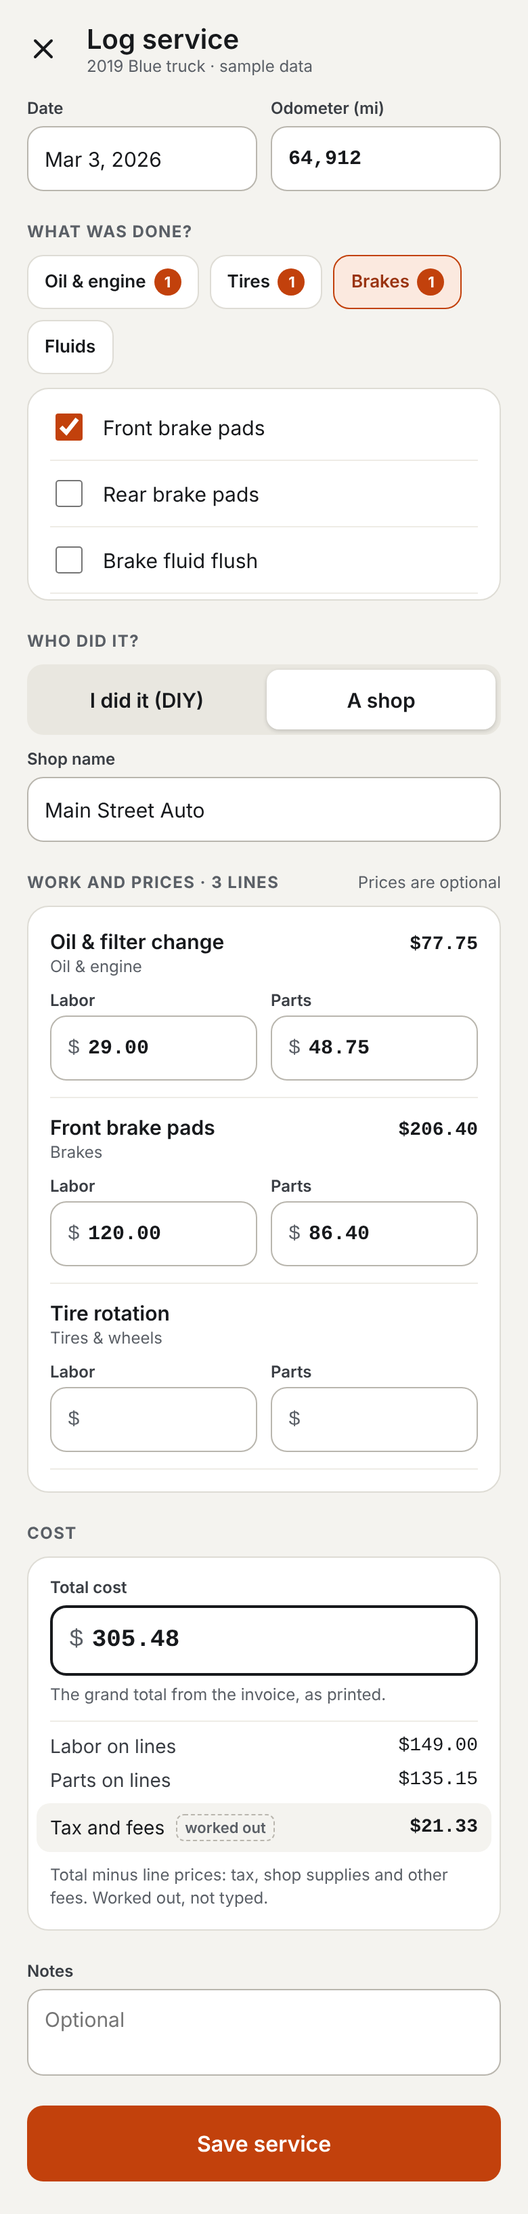
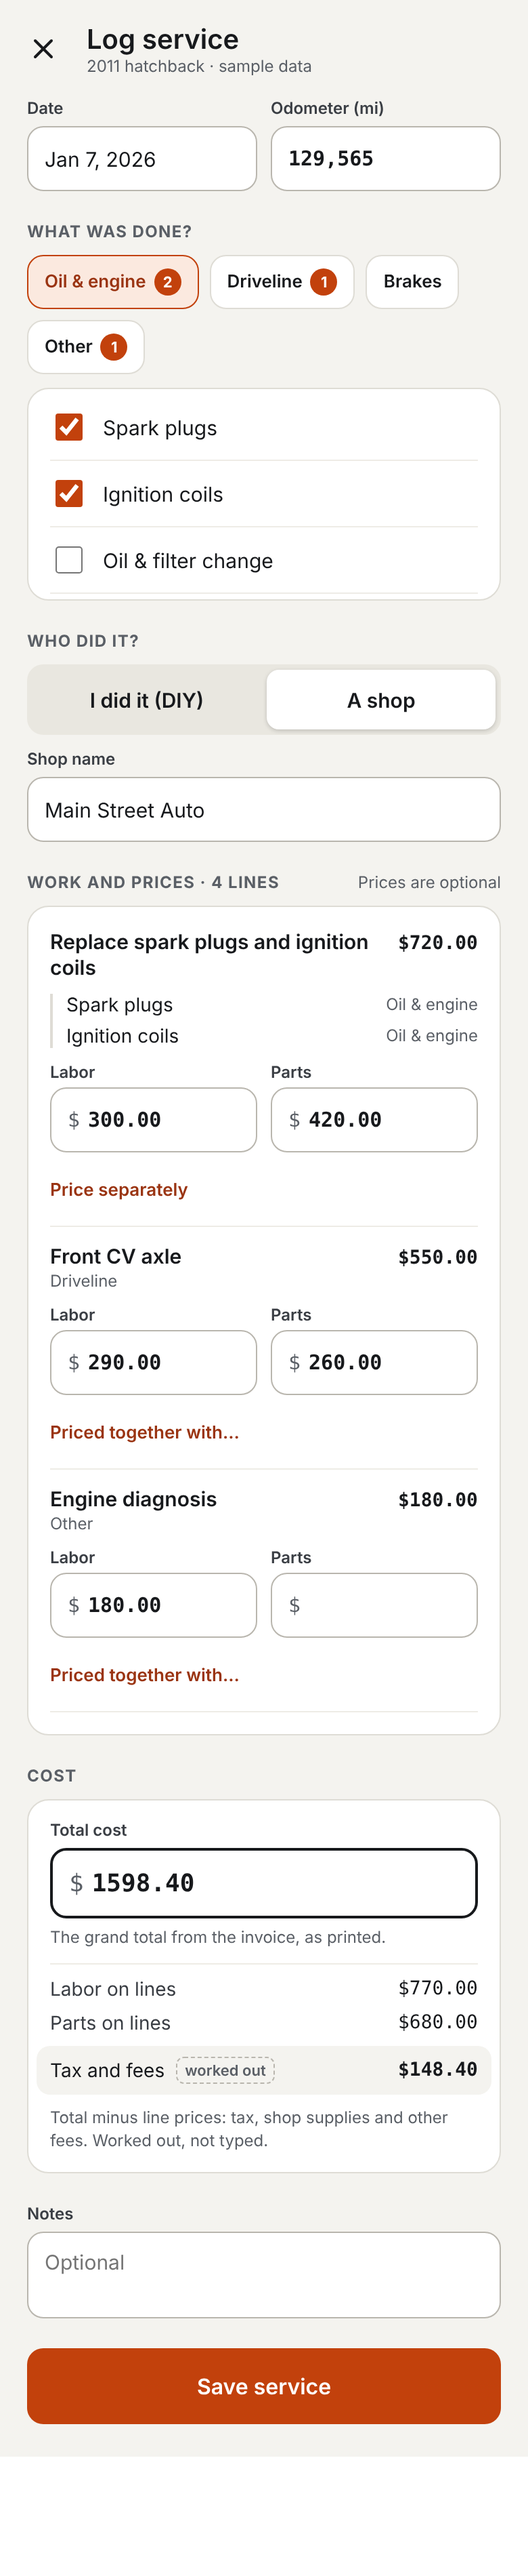
docs(design): render the job boards (#481)
Claude Design's export of the Labor & parts prices page, now showing
jobs: the spark plugs and ignition coils job, the "Priced together
with…" menu, and a total below the line prices.

diff --git a/design/README.md b/design/README.md
@@ -62,11 +62,11 @@ Map raw hex colors to the theme tokens in `app/.../ui/theme/Theme.kt` rather tha
 | Prices A · Log service — shop, one job covers two lines (chosen layout) | `screens/PricesLog.png` · `screens/PricesLogDark.png` | `source/PricesLog.dc.html` |
 | Prices A · Log service — DIY, nothing priced | `screens/PricesLogDiy.png` · `screens/PricesLogDiyDark.png` | `source/PricesLogDiy.dc.html` → imports `PricesLog` |
 | Prices A · Edit service — filled | `screens/PricesEdit.png` · `screens/PricesEditDark.png` | `source/PricesEdit.dc.html` → imports `PricesLog` |
-| Prices A · "Priced together with…" menu open | none yet | `source/PricesCombine.dc.html` (+ `Dark`) → imports `PricesLog` |
-| Prices A · Log service — total below the line prices | none yet | `source/PricesLogUnder.dc.html` (+ `Dark`) → imports `PricesLog` |
+| Prices A · "Priced together with…" menu open | `screens/PricesCombine.png` · `screens/PricesCombineDark.png` | `source/PricesCombine.dc.html` (+ `Dark`) → imports `PricesLog` |
+| Prices A · Log service — total below the line prices | `screens/PricesLogUnder.png` · `screens/PricesLogUnderDark.png` | `source/PricesLogUnder.dc.html` (+ `Dark`) → imports `PricesLog` |
 | Prices · Service record — with job prices | `screens/PricesRecord.png` · `screens/PricesRecordDark.png` | `source/PricesRecord.dc.html` |
 | Prices · Service record — no prices | `screens/PricesRecordPlain.png` · `screens/PricesRecordPlainDark.png` | `source/PricesRecordPlain.dc.html` → imports `PricesRecord` |
-| Prices · Service record — total below the line prices | none yet | `source/PricesRecordUnder.dc.html` (+ `Dark`) → imports `PricesRecord` |
+| Prices · Service record — total below the line prices | `screens/PricesRecordUnder.png` · `screens/PricesRecordUnderDark.png` | `source/PricesRecordUnder.dc.html` (+ `Dark`) → imports `PricesRecord` |
 | Prices B · Log service — price sheet per line (alternative, not chosen) | `screens/PricesLogB.png` · `screens/PricesLogBDark.png` | `source/PricesLogB.dc.html` |
 
 ## PDF report
@@ -81,6 +81,5 @@ checked for colorblind separation; every color also has a text label, so the rep
 Spec: `specs/line-prices.md`. `PricesLog.dc.html` and `PricesRecord.dc.html` hold the real markup; the
 other `Prices*.dc.html` files only import them with a different `variant` / `theme`.
 
-**The `Prices*` PNGs show the first pass** (prices on single lines, $305.48 sample) except `PricesLogB`;
-the sources are the jobs version (canvas version 36). Read the sources until the renders are exported again.
+All `Prices*` PNGs match the current sources (jobs version). Renders use fallback fonts; the app uses IBM Plex Sans / Mono.
 
